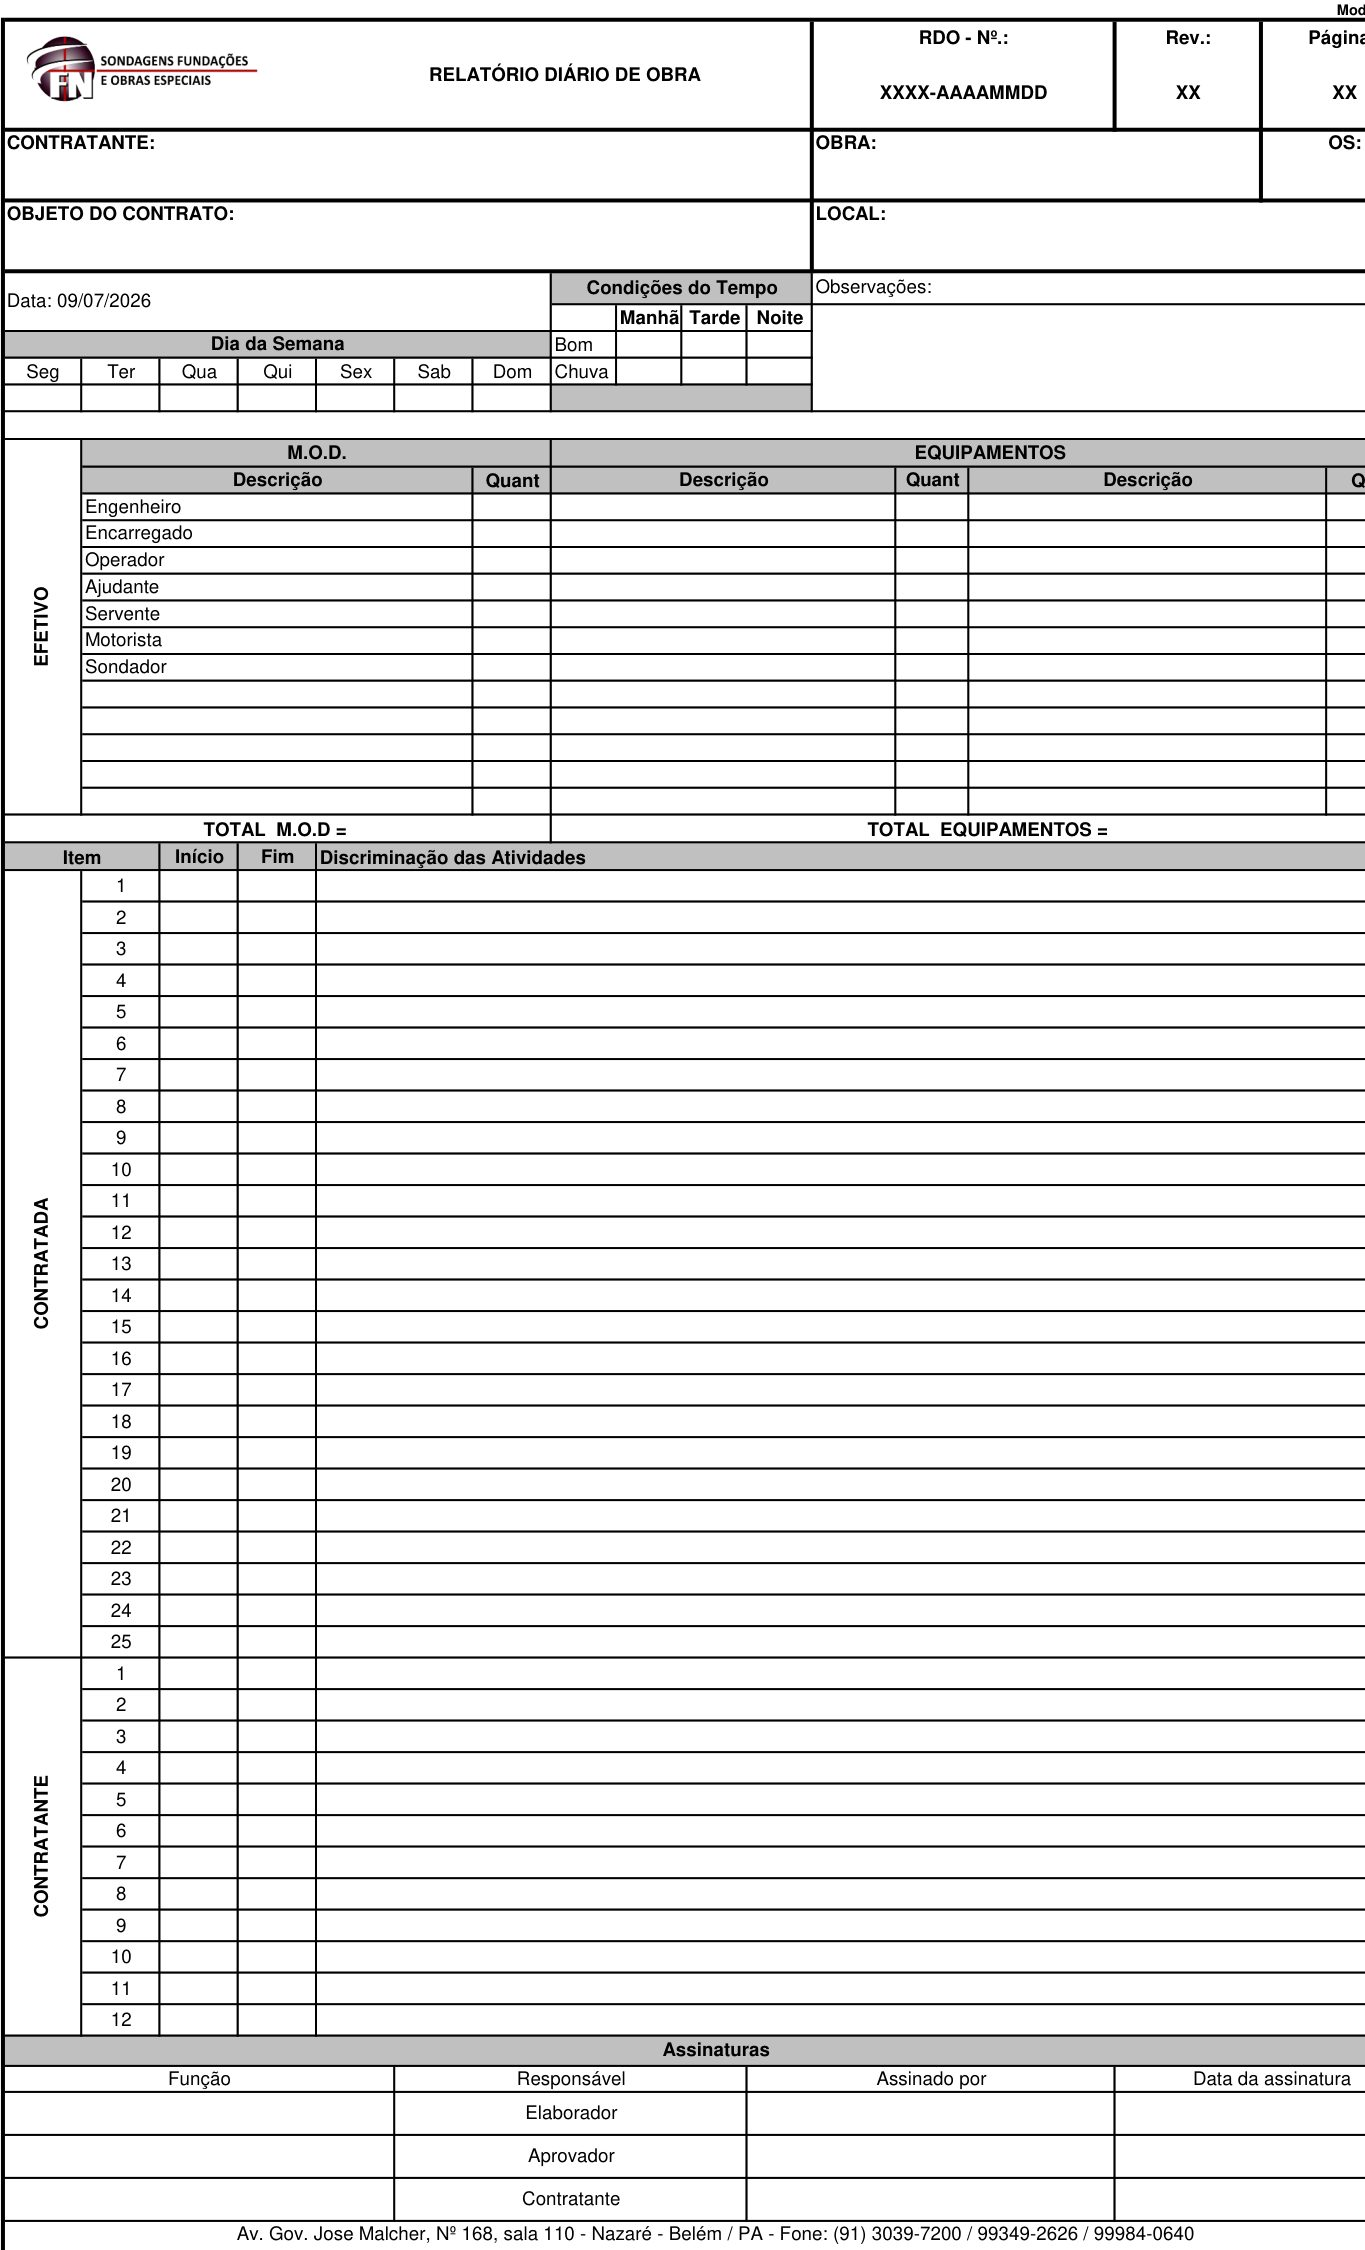
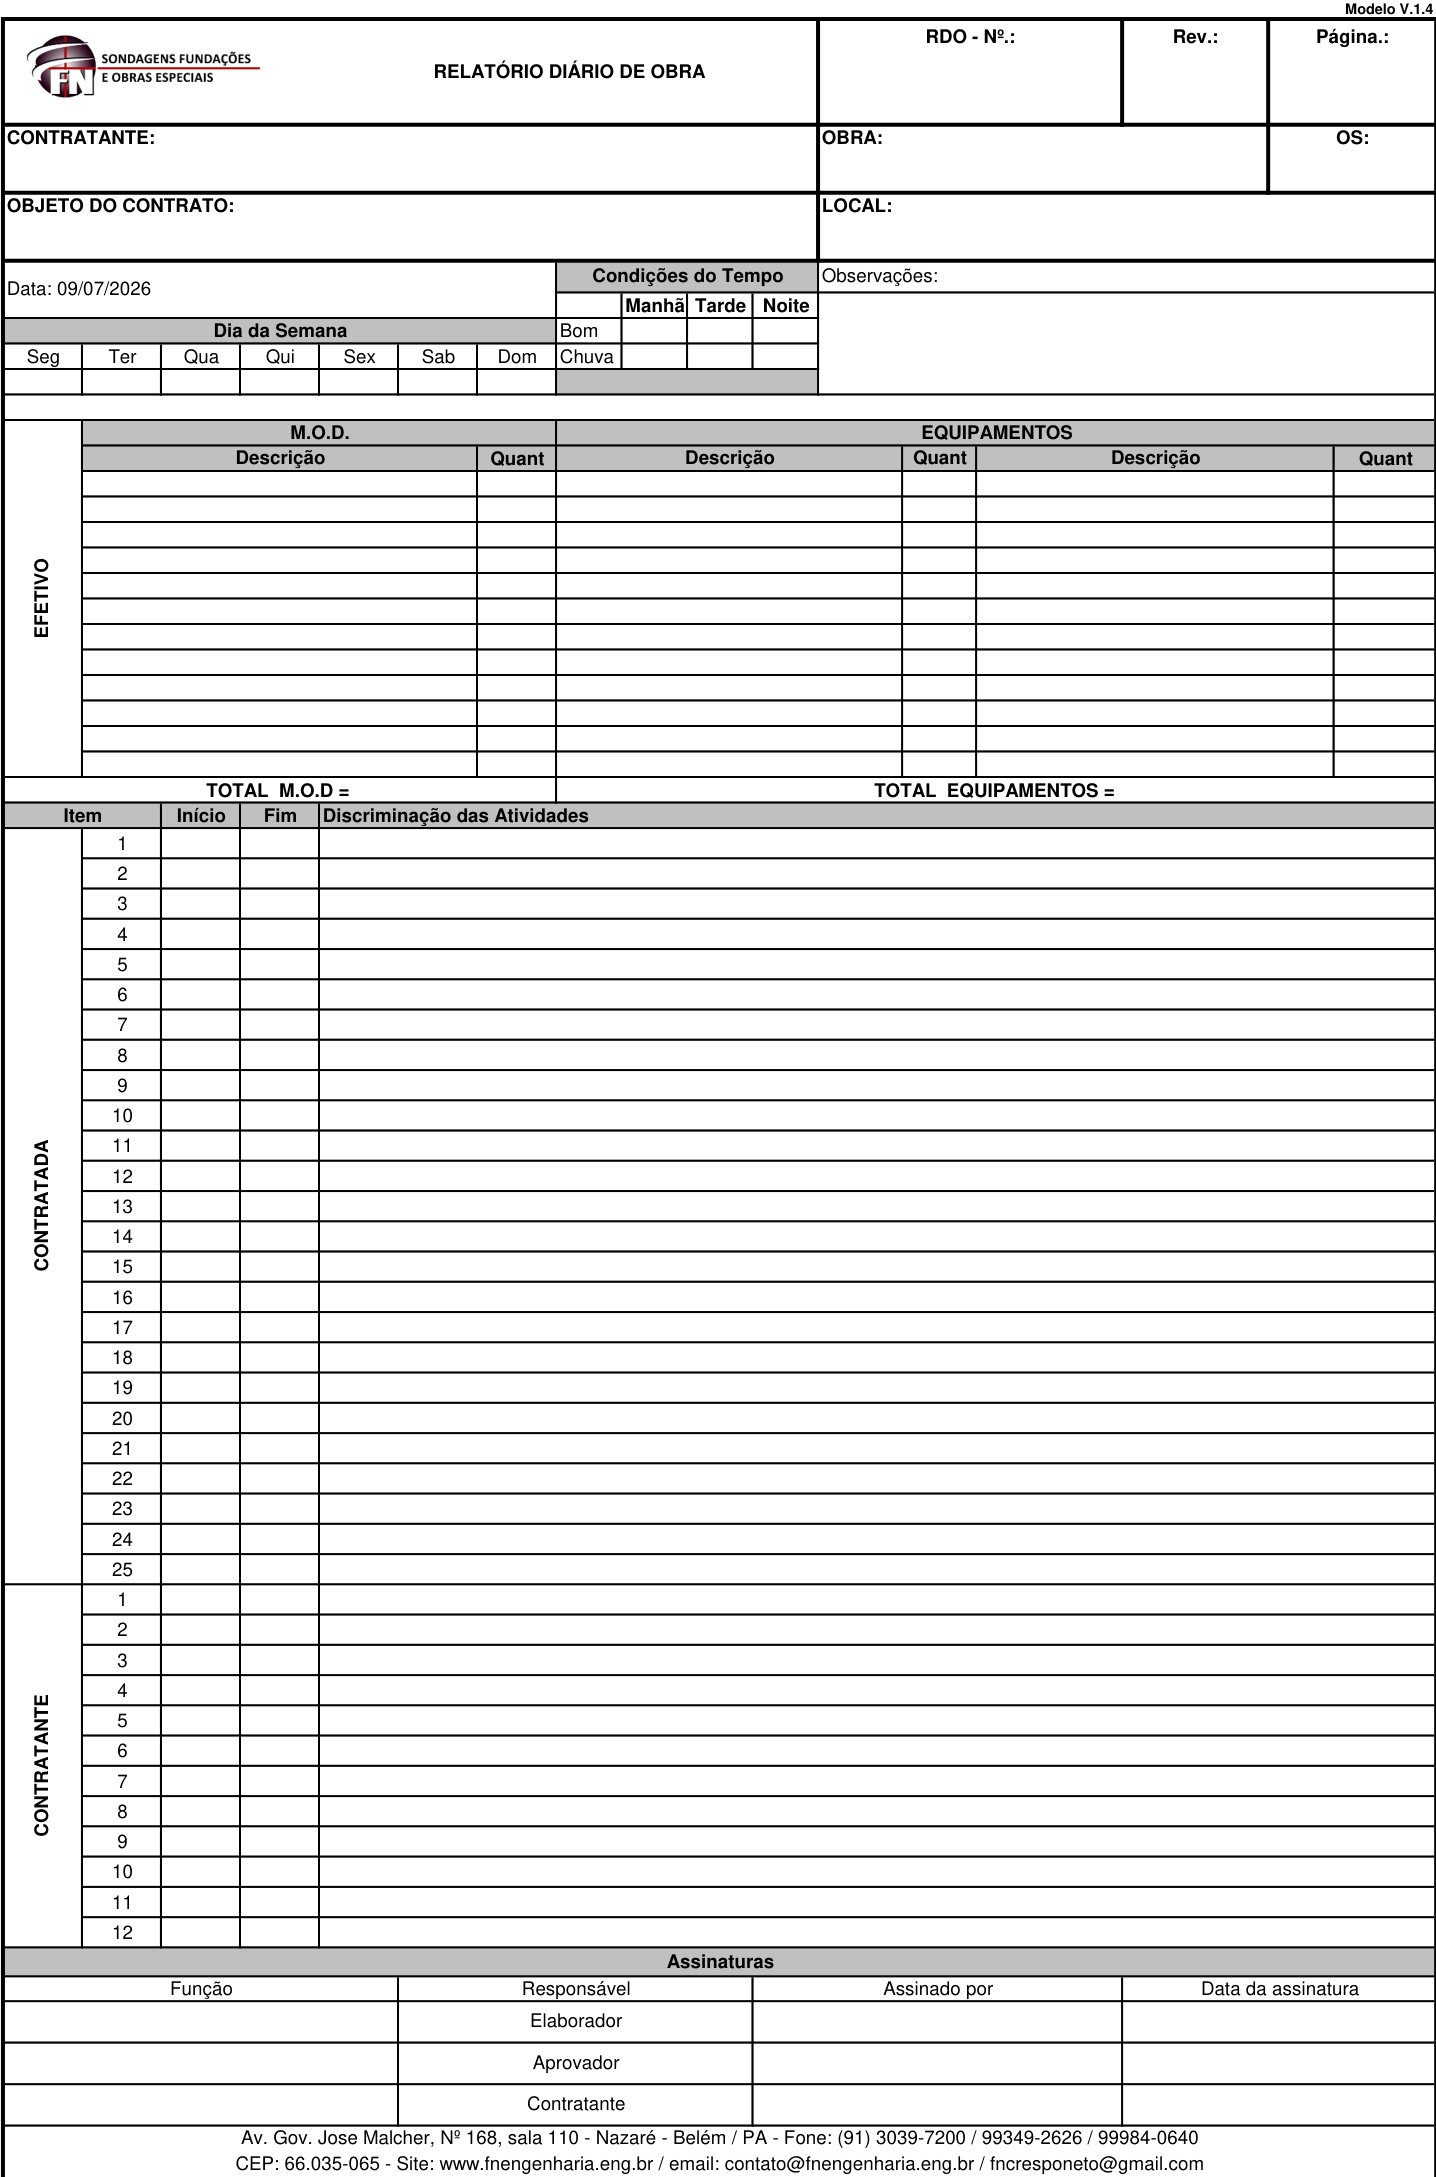
Recalibra a previa offline com o modelo novo (sem textos de exemplo) e corrige o desalinhamento acumulado - a exportacao do Excel pra PDF aplica uma escala pequena e assimetrica por eixo que nao aparece nas propriedades COM, so descoberta comparando texto-ancora no PDF exportado. Retangulo de limpez

Changed region(s): [[0.0, 0.0, 1.0, 0.9995], [0.3077, 0.0, 0.5231, 0.0625]]

diff --git a/preview-offline.js b/preview-offline.js
@@ -19,34 +19,36 @@
 // LINHA_ATIV_CONTRATADA/CONTRATANTE_INICIO) pra saber onde cada campo cai.
 // Só precisa remedir se o modelo_rdo.xlsx mudar de layout de novo.
 const RdoPreviewOffline = (function () {
-  // Remedido em 14/07/2026 (modelo trocado de novo - ver [[project_rdo_app]]
-  // release da assinatura em texto): a área de assinatura desceu e encolheu
-  // (71-74 em vez de 73-76, agora tabela de texto em vez de imagem) e o
-  // bloco de atividades da Contratante perdeu 3 linhas (57-69 em vez de
-  // 57-72). Processo de medição igual ao de sempre - via Excel COM,
-  // Rows(n).Top relativo à célula A1 (linha 1/2 ficam em 0.0 porque a linha
-  // 1 é uma linha "espaçadora" oculta no modelo, sempre foi assim). As
-  // COLUNAS também mudaram um pouco desta vez (R em diante ficou ~6pt mais
-  // estreito - Q encolheu) - remedidas as duas tabelas inteiras.
+  // Remedido em 16/07/2026 (modelo trocado de novo - modelo_rdo.xlsx sem os
+  // textos de exemplo que sobravam antes nas células do M.O.D. e do número
+  // de RDO). Achado importante desta remedição: `Rows(n).Top`/`Columns(n).
+  // Left` via Excel COM (o valor "de catálogo") NÃO bate com a posição de
+  // verdade quando o Excel exporta pra PDF/imagem - a exportação aplica uma
+  // escala pequena e ASSIMÉTRICA por eixo (vertical ~3% menor, horizontal
+  // ~7% maior) que não aparece nas propriedades COM, só no resultado
+  // exportado. Confirmado comparando a posição real de ~15 textos-âncora
+  // (números de item, "Elaborador"/"Aprovador"/etc.) no PDF exportado contra
+  // o valor bruto do COM - o desvio cresce da esquerda/topo pra
+  // direita/baixo, ficando bem visível (>30pt) na área de assinaturas. Os
+  // valores abaixo já são CORRIGIDOS (ponto medido no PDF de verdade, não o
+  // valor bruto do COM) - por isso não formam mais uma progressão redonda
+  // tipo "36.0, 72.0, 108.0...". Reproduzir a medição: exportar o modelo em
+  // branco via Excel COM (`ExportAsFixedFormat`, papel A3, Zoom=100,
+  // margens=0) e comparar a posição de textos conhecidos (`page.search_for`
+  // do PyMuPDF) contra `Rows/Columns.Top/Left` pra achar a escala real.
   const LINHA_Y_PT = {
-    1: 0.0, 2: 0.0, 3: 9.0, 4: 27.0, 5: 45.0, 6: 61.2, 7: 94.8, 8: 128.4,
-    9: 144.0, 10: 156.6, 11: 169.2, 12: 181.8, 13: 194.4, 14: 207.6, 15: 220.8,
-    16: 233.4, 17: 246.0, 18: 258.6, 19: 271.2, 20: 283.8, 21: 296.4, 22: 309.0,
-    23: 321.6, 24: 334.2, 25: 346.8, 26: 359.4, 27: 372.0, 28: 384.6, 29: 397.8,
-    30: 411.0, 31: 426.0, 32: 441.0, 33: 456.0, 34: 471.0, 35: 486.0, 36: 501.0,
-    37: 516.0, 38: 531.0, 39: 546.0, 40: 561.0, 41: 576.0, 42: 591.0, 43: 606.0,
-    44: 621.0, 45: 636.0, 46: 651.0, 47: 666.0, 48: 681.0, 49: 696.0, 50: 711.0,
-    51: 726.0, 52: 741.0, 53: 756.0, 54: 771.0, 55: 786.0, 56: 786.0, 57: 786.0,
-    58: 801.0, 59: 816.0, 60: 831.0, 61: 846.0, 62: 861.0, 63: 876.0, 64: 891.0,
-    65: 906.0, 66: 921.0, 67: 936.0, 68: 951.0, 69: 966.0, 70: 966.0, 71: 980.4,
-    72: 992.4, 73: 1012.8, 74: 1033.2, 75: 1053.6, 76: 1066.8, 77: 1080.0,
-    78: 1092.6, 79: 1105.8, 80: 1118.4
+    1: 0.0, 2: 0.0, 3: 6.64, 4: 24.08, 5: 41.51, 6: 57.49, 7: 90.18, 8: 122.87, 9: 138.12, 10: 150.47, 11: 162.82, 12: 175.17, 13: 187.52,
+    14: 199.87, 15: 212.22, 16: 224.57, 17: 236.92, 18: 249.27, 19: 261.62, 20: 273.97, 21: 286.32, 22: 298.66, 23: 311.01, 24: 323.36, 25: 335.71, 26: 348.06,
+    27: 360.41, 28: 372.76, 29: 385.11, 30: 397.46, 31: 411.99, 32: 426.52, 33: 441.04, 34: 455.57, 35: 470.1, 36: 484.63, 37: 499.16, 38: 513.69, 39: 528.21,
+    40: 542.74, 41: 557.27, 42: 571.8, 43: 586.33, 44: 600.86, 45: 615.39, 46: 629.91, 47: 644.44, 48: 658.97, 49: 673.5, 50: 688.03, 51: 702.56, 52: 717.08,
+    53: 731.61, 54: 746.14, 55: 760.67, 56: 760.67, 57: 760.67, 58: 775.2, 59: 789.73, 60: 804.26, 61: 818.78, 62: 833.31, 63: 847.84, 64: 862.37, 65: 876.9,
+    66: 891.43, 67: 905.96, 68: 920.48, 69: 935.01, 70: 935.01, 71: 948.81, 72: 960.44, 73: 980.05, 74: 999.66, 75: 1019.28, 76: 1031.63, 77: 1044.7, 78: 1057.05,
+    79: 1069.4, 80: 1081.75
   };
   const COLUNA_X_PT = {
-    A: 0.0, B: 36.0, C: 72.0, D: 108.0, E: 144.0, F: 180.0, G: 216.0, H: 252.0,
-    I: 282.0, J: 312.0, K: 342.0, L: 372.0, M: 375.6, N: 410.4, O: 440.4,
-    P: 444.0, Q: 474.0, R: 511.2, S: 541.2, T: 548.4, U: 578.4, V: 608.4,
-    W: 655.2, FIM: 655.2
+    A: 0.0, B: 39.4, C: 77.27, D: 115.15, E: 153.03, F: 190.91, G: 228.79, H: 266.67,
+    I: 298.1, J: 329.53, K: 360.96, L: 392.39, M: 396.42, N: 432.69, O: 464.12, P: 468.15,
+    Q: 499.58, R: 538.26, S: 569.69, T: 576.95, U: 608.38, V: 639.81, FIM: 688.97
   };
   // Print area do modelo é $A$2:$V$76 - a altura da página é o topo da
   // linha SEGUINTE ao fim da área impressa (linha 77), mesmo raciocínio já
@@ -59,12 +61,16 @@ const RdoPreviewOffline = (function () {
   function alturaLinha_(linha) { return yTopoLinha_(linha + 1) - yTopoLinha_(linha); }
 
   // Escreve texto de VERDADE (vetor, nítido em qualquer zoom) - limpa
-  // (retângulo branco) a área antes, já que o modelo em branco vem com
-  // texto padrão nalgumas células (nomes das funções do M.O.D., rótulos
-  // "RDO - Nº.:"/"Data:" que a app REESCREVE no xlsx real) - sem limpar, o
-  // texto novo "dobraria" visualmente em cima do antigo. `limparLarguraPt:
-  // 0` pula a limpeza pros campos onde o rótulo É estático de verdade (só
-  // o valor é escrito do lado).
+  // (retângulo branco) a área antes, já que o modelo em branco pode vir com
+  // texto padrão nalgumas células (rótulos que a app REESCREVE no xlsx
+  // real) - sem limpar, o texto novo "dobraria" visualmente em cima do
+  // antigo. `limparLarguraPt: 0` pula a limpeza pros campos onde o rótulo É
+  // estático de verdade (só o valor é escrito do lado). O retângulo de
+  // limpeza é semitransparente (16/07/2026, pedido do Paulo) - opaco ele
+  // apagava as linhas de grade da tabela por baixo (M.O.D./Equipamentos/
+  // Atividades), fazendo o campo parecer "flutuando" sem borda; com opacidade
+  // parcial a grade do fundo continua visível e ainda cobre o suficiente
+  // pra não dobrar visualmente com texto estático eventual.
   function escreverTexto_(doc, texto, coluna, linha, fontePt, deslocTopoPt, opts) {
     const t = (texto == null ? '' : String(texto)).trim();
     if (!t) return;
@@ -75,8 +81,11 @@ const RdoPreviewOffline = (function () {
     const larguraLimparPt = o.limparLarguraPt != null ? o.limparLarguraPt : 150;
     if (larguraLimparPt > 0) {
       const offsetPt = o.limparOffsetPt || 0;
+      doc.saveGraphicsState();
+      doc.setGState(new doc.GState({ opacity: 0.7 }));
       doc.setFillColor(255, 255, 255);
       doc.rect(xColuna_(coluna) + offsetPt + 0.5, yTopoLinha_(linha) + 0.5, larguraLimparPt, alturaLinha_(linha) - 1, 'F');
+      doc.restoreGraphicsState();
     }
 
     doc.setFont('helvetica', o.negrito ? 'bold' : 'normal');
@@ -257,6 +266,12 @@ const RdoPreviewOffline = (function () {
     escreverTexto_(doc, state.local + (state.frente ? ' - Frente ' + state.frente : ''), 'L', 7, 10, 17, { limparLarguraPt: 307.8 });
     if (state.data) {
       const [ano, mes, dia] = state.data.split('-');
+      // A célula A8 vem com "Data: 09/07/2026" de exemplo já escrito no
+      // modelo em branco (rótulo+valor no mesmo texto, ao contrário de
+      // OBRA/LOCAL que têm rótulo estático numa célula e valor noutra) -
+      // pré-existente desde antes desta remedição (já acontecia no modelo
+      // anterior também), não é regressão de hoje. `limparLarguraPt: 0`
+      // mantém o comportamento de sempre.
       escreverTexto_(doc, dia + '/' + mes + '/' + ano, 'A', 8, 9, 2, { padXPt: 32, limparLarguraPt: 0 });
     }
     desenharDiaSemana_(doc, state.data);

diff --git a/api.js b/api.js
@@ -21,7 +21,7 @@ const APPS_SCRIPT_URL = 'https://script.google.com/macros/s/AKfycbxYyo1aUt0NdsHs
 // manualmente a cada release (o mesmo valor deve ser espelhado em
 // APP_VERSAO_ATUAL no Config.gs do backend, usado pela atualização
 // automática pra saber se tem versão nova pra baixar).
-const VERSAO_APP = 'BETA 0.9.14';
+const VERSAO_APP = 'BETA 0.9.15';
 
 // Cópia da lista inicial (obras ativas/recentes, OS 1294-1351, extraídas de
 // "Lista de serviços (OS).xls") embutida como fallback: usada enquanto
